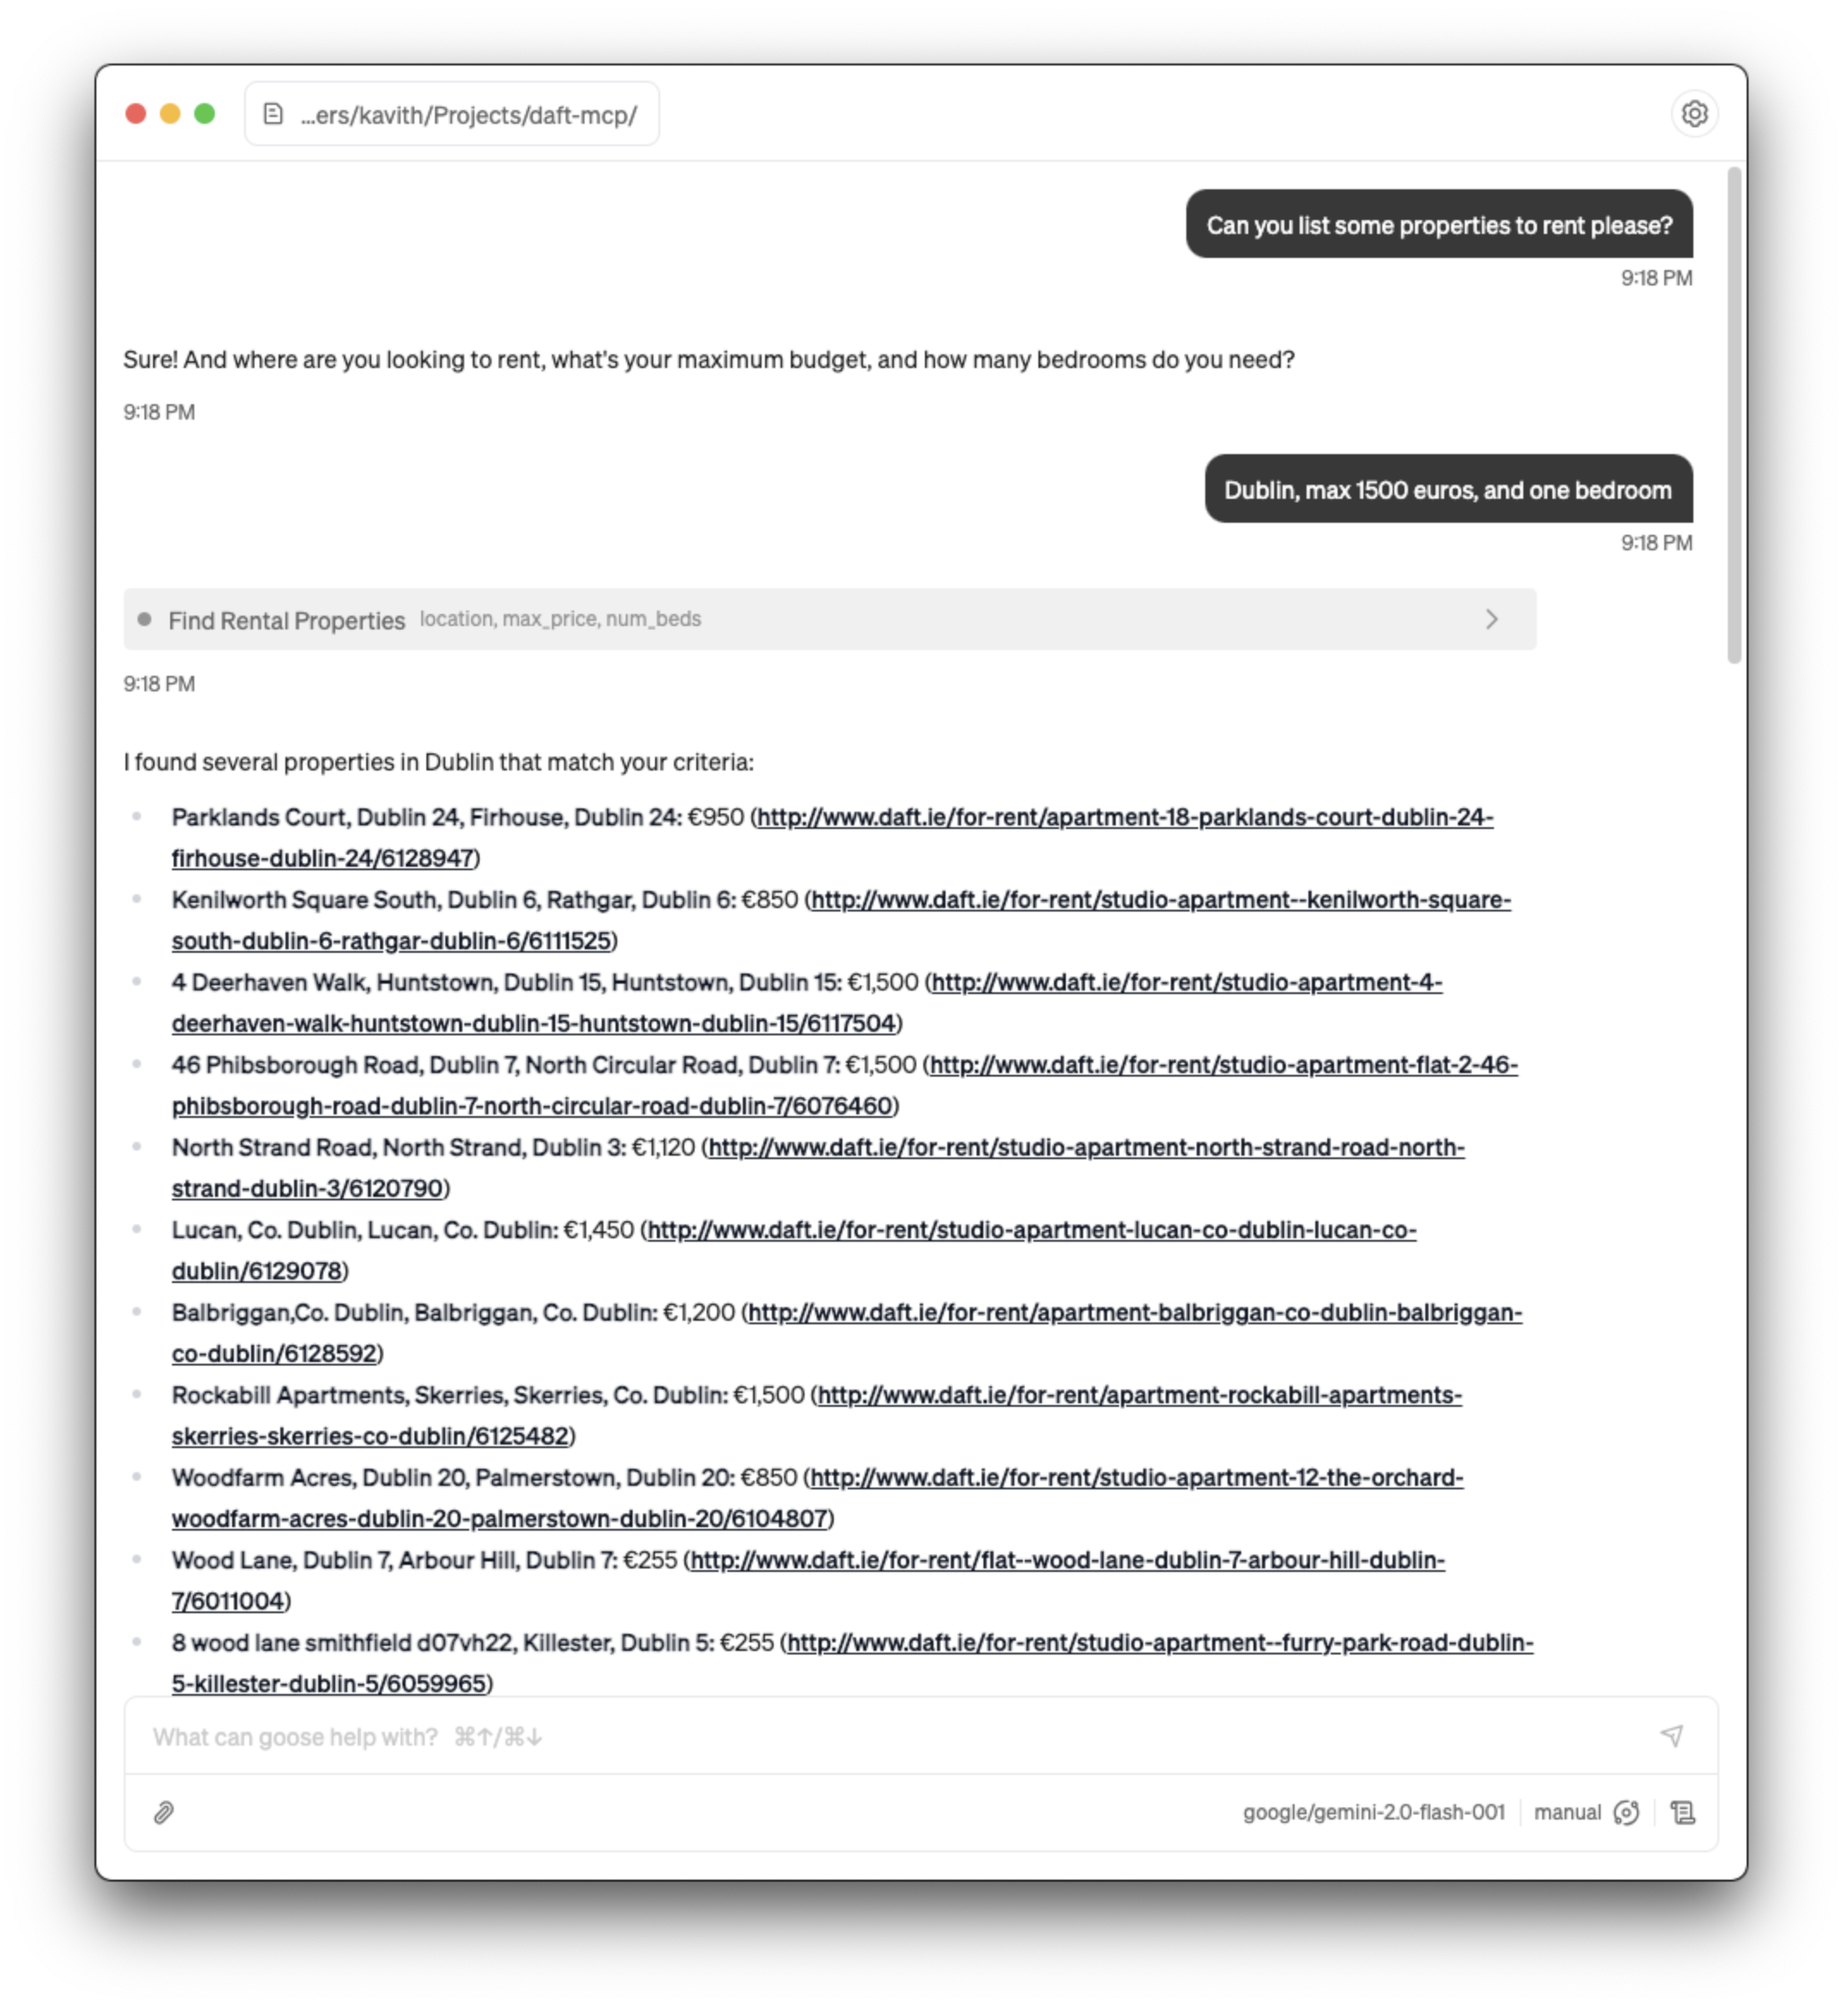
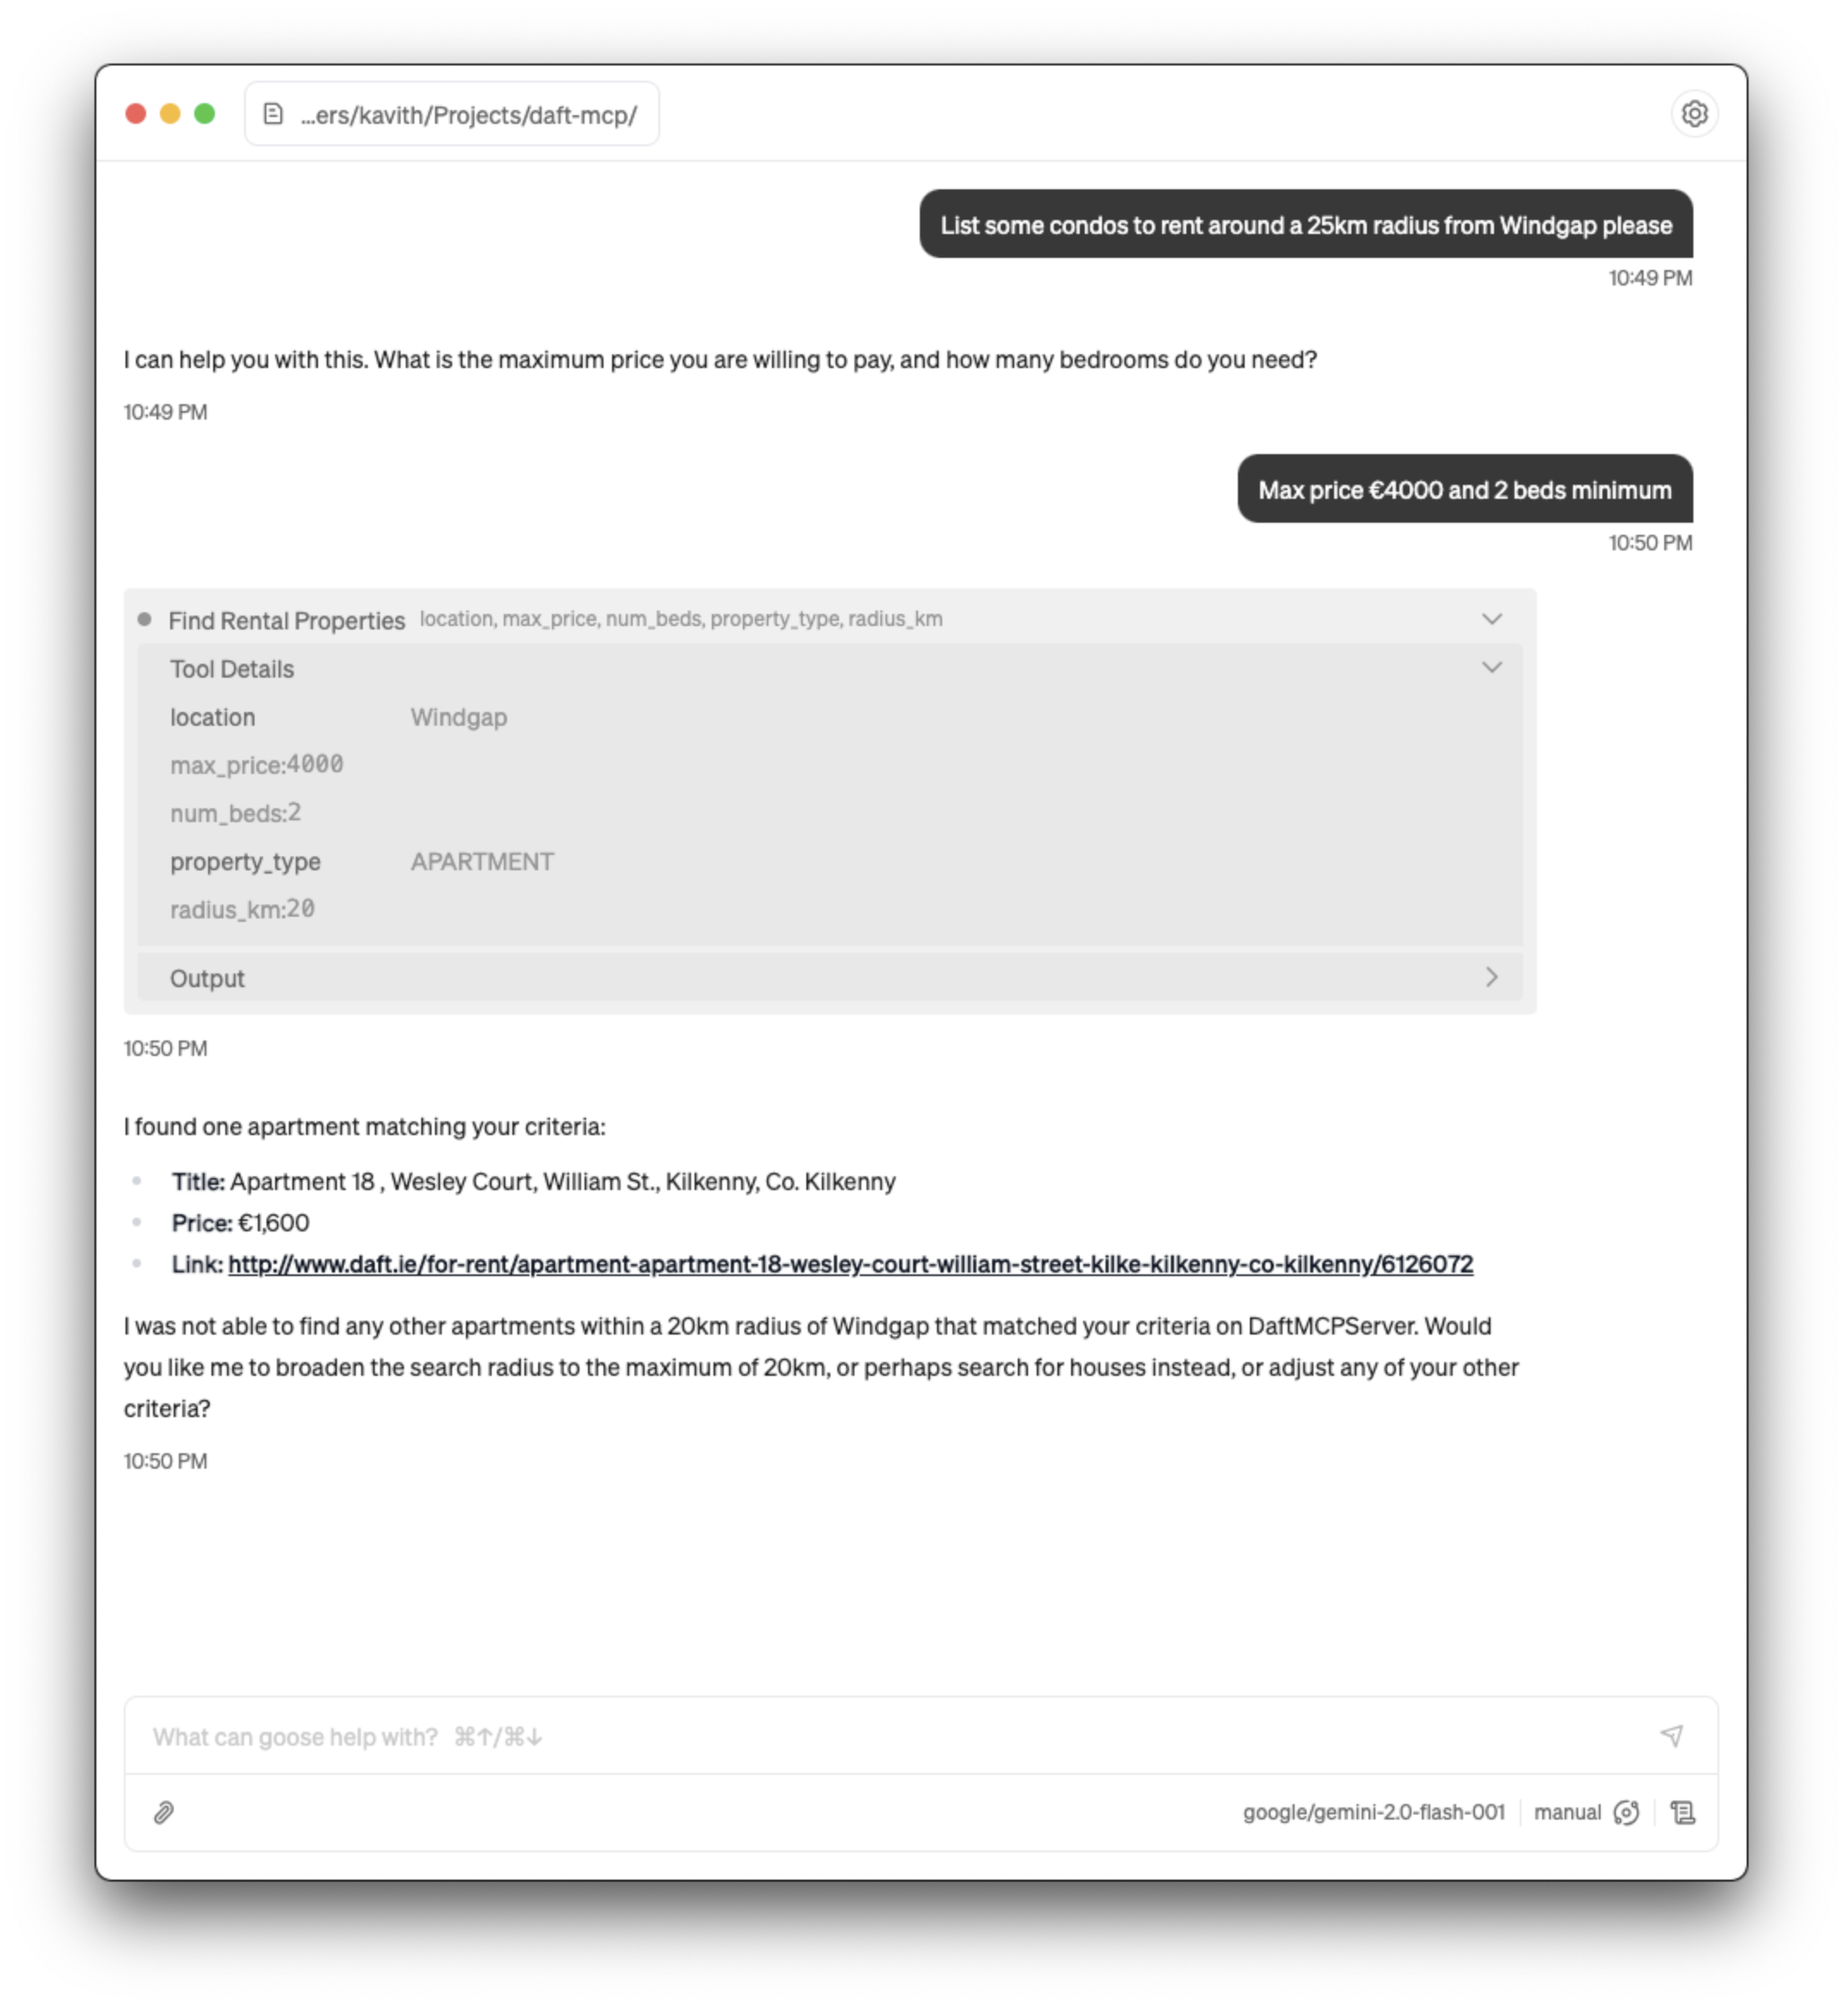
LLM-based mapping of vague terms to daftlisting enums

diff --git a/daft_mcp_server.py b/daft_mcp_server.py
@@ -1,38 +1,149 @@
+import requests
+import json
+import os
+from dotenv import load_dotenv
 from mcp.server.fastmcp import FastMCP
-from daftlistings import Daft, SearchType, Location, Distance
+from daftlistings import Daft, SearchType, Location, Distance, PropertyType
 from typing import List, Dict, Optional
 
-mcp_server = FastMCP("DaftRentalsServer")
+load_dotenv()
+mcp_server = FastMCP("DaftMCPServer")
+
+def get_llm_response(prompt: str) -> Optional[str]:
+    """Sends a prompt to the LLM and returns the text response."""
+    try:
+        api_key = os.environ.get("OPENROUTER_API_KEY")
+        if not api_key:
+            raise ValueError("Error: OPENROUTER_API_KEY environment variable not set.")
+
+        response = requests.post(
+            url="https://openrouter.ai/api/v1/chat/completions",
+            headers={
+                "Authorization": f"Bearer {api_key}",
+                "X-Title": "DaftMCPServer",
+            },
+            data=json.dumps({
+                "model": "google/gemini-2.0-flash-001",
+                "messages": [
+                    {"role": "user", "content": prompt}
+                ]
+            })
+        )
+        response.raise_for_status()
+        result = response.json()
+
+        if result.get("choices") and len(result["choices"]) > 0:
+            return result["choices"][0].get("message", {}).get("content", "").strip()
+        else:
+            print(f"Error: Unexpected response structure from OpenRouter API: {result}")
+            return None
+    except requests.exceptions.RequestException as e:
+        print(f"Error calling OpenRouter API: {e}")
+        return None
+    except Exception as e:
+        print(f"Error in get_llm_response: {e}")
+        return None
+
+def map_location_to_daft_location(location: str) -> Optional[Location]:
+    """Maps a user-provided location string to a daftlistings Location enum value using an LLM."""
+    try:
+        daft_locations_map = {loc.value["displayName"]: loc.name for loc in Location} # E.g.: {"Dublin": "DUBLIN"}
+
+        prompt = f"""Given the user input location "{location}", which of the following valid locations is the closest match? 
+Valid locations: {list(daft_locations_map.keys())}
+Please return only the single best matching location name from the list provided."""
+
+        llm_choice = get_llm_response(prompt)
+
+        # Validate if the LLM choice is one of the valid display names
+        if llm_choice in daft_locations_map:
+            enum_name = daft_locations_map[llm_choice]
+            return getattr(Location, enum_name)
+        else:
+            raise ValueError(f"Error: LLM returned an invalid location '{llm_choice}'.")
+
+    except Exception as e:
+        raise ValueError(f"Error in map_location_to_daft_location: {e}")
+
+def map_radius_to_daft_distance(radius_km: int) -> Optional[Distance]:
+    """Maps a user-provided radius in km to a daftlistings Distance enum value.
+    If the radius is not an exact valid daftlistings Distance, it maps to the closest valid Distance.
+    """
+    # Mapping from km distance to daftlistings Distance enum
+    distance_enum_map = {
+        0: Distance.KM0,
+        1: Distance.KM1,
+        3: Distance.KM3,
+        5: Distance.KM5,
+        10: Distance.KM10,
+        20: Distance.KM20,
+    }
+    
+    valid_distances = list(distance_enum_map.keys()) # [0, 1, 3, 5, 10, 20]
+
+    if radius_km in distance_enum_map:
+        # Exact match found
+        distance_to_map = radius_km
+    else:
+        # No exact match, find the closest valid distance
+        closest_distance = min(valid_distances, key=lambda x: abs(x - radius_km))
+        distance_to_map = closest_distance
+    
+    # Return the corresponding enum value using the pre-defined map
+    return distance_enum_map.get(distance_to_map)
+
+def map_property_type_to_daft_property_type(property_type: str) -> Optional[PropertyType]:
+    """Maps a user-provided property type to a daftlistings PropertyType enum value using an LLM."""
+    try:
+        daft_property_types = [p.name for p in PropertyType] # E.g.: ["APARTMENT", "HOUSE", "DUPLEX"]
+
+        prompt = f"""Given the user input property type "{property_type}", which of the following valid property types is the closest match? 
+Valid property types: {daft_property_types}
+Please return only the single best matching property type name from the list provided."""
+
+        llm_choice = get_llm_response(prompt)
+
+        if llm_choice in daft_property_types:
+            return getattr(PropertyType, llm_choice)
+        else:
+            raise ValueError(f"Error: LLM returned an invalid property type '{llm_choice}'.")
+    except Exception as e:
+        raise ValueError(f"Error in map_property_type_to_daft_property_type: {e}")
 
 @mcp_server.tool()
 def find_rental_properties(
     location: str,
     max_price: int,
-    num_beds: Optional[int] = None,
+    num_beds: Optional[int],
     radius_km: Optional[int] = None,
     property_type: Optional[str] = None,
 ) -> List[Dict[str, str]]:
     """
     Finds rental properties on Daft.ie.
     Searches for properties to rent based on location, max price, number of bedrooms,
-    search radius (in km, common values: 0, 1, 2, 3, 4, 5, 7, 10, 15, 20, 25, 30, 35, 40, 45, 50),
-    and property type (e.g., APARTMENT, HOUSE).
+    search radius (in km, accepted values: 0, 1, 3, 5, 10, 20),
+    and property type.
     """
     try:
         daft = Daft()
         daft.set_search_type(SearchType.RESIDENTIAL_RENT)
+        daft.set_max_price(max_price)
+        daft.set_min_beds(num_beds)
+
+        # Use the mapping function to get the daftlistings Location enum value
+        daft_location = map_location_to_daft_location(location)
+        if not daft_location:
+            raise ValueError(f"Error: Could not map location '{location}'.")
 
         if radius_km is not None:
-            daft.set_location(Location.DUBLIN, distance=Distance.KM10)
+            daft.set_location(daft_location, distance=map_radius_to_daft_distance(radius_km))
         else:
-            daft.set_location(Location.DUBLIN) # Default search without specific radius if not provided
+            daft.set_location(daft_location) # Search with mapped location without specific radius
 
-        daft.set_max_price(max_price)
+        if property_type is not None:
+            daft.set_property_type(map_property_type_to_daft_property_type(property_type))
 
-        if num_beds is not None:
-            daft.set_min_beds(num_beds)
-
-        print(f"Searching Daft.ie with criteria: Location='{location}', MaxPrice={max_price}, Beds={num_beds}, RadiusKM={radius_km}, PropertyType='{property_type}'")
+        print(f"Searching Daft.ie with criteria: Location='{daft_location.name}', MaxPrice={max_price}, Beds={num_beds}, RadiusKM={radius_km}, PropertyType='{property_type}'")
 
         listings = daft.search(max_pages=1)
 

diff --git a/README.md b/README.md
@@ -1,31 +1,42 @@
 # Daft MCP Server
 
-An MCP server built on top of the [daftlistings](https://github.com/AnthonyBloomer/daftlistings) library to search for rental properties on [daft.ie](https://daft.ie) using an MCP Client. It exposes a tool, `find_rental_properties`, which can be used to find properties based on criteria such as location, maximum price, number of bedrooms, search radius, and property type.
+A thin MCP server built on top of the [daftlistings](https://github.com/AnthonyBloomer/daftlistings) library to search for rental properties on [daft.ie](https://daft.ie) using an MCP client. It exposes a tool, `find_rental_properties`, which can be used to find properties based on criteria such as location, maximum price, number of bedrooms, search radius, and property type.
 
-## Intallation
+This MCP server can *"intelligently"* map vague terms that aren't supported by daft or daftlistings. For example, you can ask for "condos in Windgap" and your request will get mapped to PropertyType.APARTMENT & Location.WINDGAP_KILKENNY. This functionality is supported via utility LLM calls that map user-specified terms to enums used in the library.
+
+## Installation
 
 ### 1. Create a Python virtual environment
 ```bash
 python -m venv .venv
+source .venv/bin/activate
 ```
 
 ### 2. Install the required dependencies
 ```bash
 pip install -r requirements.txt
 ```
+### 3. Set OpenRouter API Key
+This project uses [OpenRouter](https://openrouter.ai) to route requests to Google's Gemini 2.0 Flash model. You'll need to create a new API key on [OpenRouter](https://openrouter.ai) and put it in a .env file. For reference, see the ".env.example" file in this repository.
 
-### 3. Setup MCP Client
+### 4. Set up MCP client
 
-This MCP server uses stdio at the moment, so you'd have to configure your client accordingly. This is how you'd set it up to be used via [goose](https://github.com/block/goose):
+This MCP server uses stdio at the moment, so you'll have to configure your client accordingly. This is how you'd set it up to be used via [goose](https://github.com/block/goose):
 
 1. Advanced settings (⌘,) > Add custom extension
 2. Give the extension an appropriate name
 3. Set Type to "STDIO"
-4. Command needs to basically run the python script (daft_mcp_server.py) using the version of Python in your virtual environment. So, this would look like `<path-to-python-in-virtual-env> <path-to-daft_mcp_server.py>`. For example here's my command: `/Users/kavith/Projects/daft-mcp/.venv/bin/python3 /Users/kavith/Projects/daft-mcp/daft_mcp_server.py`
+4. Command needs to run the python script (daft_mcp_server.py) using the version of Python in your virtual environment. It would look like `<path-to-python-in-virtual-env> <path-to-daft_mcp_server.py>`. For example, here's my command: `/Users/kavith/Projects/daft-mcp/.venv/bin/python3 /Users/kavith/Projects/daft-mcp/daft_mcp_server.py`
 
 ## Usage
 
-This is the easy bit. You can ask your LLM to list rental properties around an area in Ireland, and it should be able to help. The tool requires the location, max_price, num_beds; so if you don't provide them explicitly in your first prompt, the model will come back and ask for the additional information :)
+This is the easy bit. You can ask your LLM to list rental properties around an area in Ireland, and it should be able to help. The tool requires the location, max_price, and num_beds; so if you don't provide them explicitly in your first prompt, the model will come back and ask for the additional information :)
 
 ![Screenshot showing the MCP server working](./screenshots/screenshot-1.png)
 ![Another screenshot showing the MCP server working](./screenshots/screenshot-2.png)
+
+## Credit
+
+* [Daft.ie](https://daft.ie) - for providing a platform that's so central to the Irish property market and for not locking away the API.
+* [daftlistings](https://github.com/AnthonyBloomer/daftlistings/) - for building such an easy-to-use library to work with the Daft API.
+* [Give(a)Go](https://giveago.co) - the initial version of this MCP server was built at one of their builder events hosted at [Baseline](https://www.baseline.community/) and sponsored by [Naptha AI](https://naptha.ai/). Would recommend checking them out if you're in Dublin!
